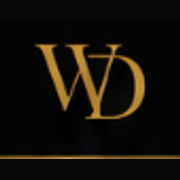
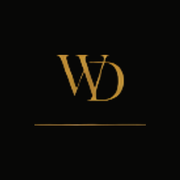
Corrige o splash do app e adiciona abertura de marca
O que aparecia ao abrir o atalho era o splash de PWA do Android: sem manifest,
o sistema monta a tela sozinho com o ícone sobre fundo branco. Entra um
manifest com background_color e theme_color na tinta do layout.

Os ícones também estavam ruins: eu os gerava esticando um logo de 85x57 até
512x512 com `contain`, o que deixava a arte borrada, a régua dourada solta no
rodapé e barras pretas nas laterais. Agora o monograma é aparado do fundo
transparente e centralizado num quadrado de tinta, com 192 e 512 px próprios.

Some também o corte branco entre o carregamento e o app: sendo renderizado no
cliente, o documento ficava branco até o bundle montar. A abertura é declarada
inline no index.html — pinta na primeira resposta, traz o monograma e a mesma
luz diagonal do hero, e sai quando o app avisa que montou. Um limite de tempo
independente garante que ela nunca retenha a página, e prefers-reduced-motion
desliga o movimento.

Changed region(s): [[0.1944, 0.2222, 0.8333, 0.7222], [0.0, 0.8611, 1.0, 0.8889]]

diff --git a/index.html b/index.html
@@ -33,8 +33,85 @@
     <meta name="twitter:image" content="https://elitewebdesigner.com.br/og-image.jpg" />
 
     <link rel="icon" href="/icon-32.png" sizes="32x32" />
+    <link rel="icon" href="/icon-192.png" sizes="192x192" />
     <link rel="icon" href="/icon-512.png" sizes="512x512" />
     <link rel="apple-touch-icon" href="/apple-touch-icon.png" />
+    <!-- Define o fundo do splash do Android; sem manifest ele monta a tela em branco. -->
+    <link rel="manifest" href="/manifest.webmanifest" />
+
+    <!--
+      Abertura inline: precisa pintar na primeira resposta, antes do CSS e do JS
+      do bundle. Sendo o site renderizado no cliente, sem isto a tela fica branca
+      até o app montar — num layout preto e dourado, um corte seco.
+    -->
+    <style>
+      #splash {
+        position: fixed;
+        inset: 0;
+        z-index: 100;
+        display: grid;
+        place-items: center;
+        overflow: hidden;
+        background: #070706;
+        transition:
+          opacity 0.75s cubic-bezier(0.22, 0.61, 0.36, 1),
+          visibility 0.75s;
+      }
+      #splash.is-done {
+        opacity: 0;
+        visibility: hidden;
+      }
+      .splash__mark {
+        width: clamp(84px, 21vw, 128px);
+        height: auto;
+        opacity: 0;
+        transform: translateY(12px) scale(0.94);
+        animation: splash-mark 1s cubic-bezier(0.22, 0.61, 0.36, 1) 0.08s forwards;
+      }
+      /* Mesma luz diagonal do hero, atravessando a cena uma única vez. */
+      .splash__sheen {
+        position: absolute;
+        top: -60%;
+        left: -30%;
+        width: 26%;
+        height: 220%;
+        transform: rotate(-27deg) translateX(-60vw);
+        background: linear-gradient(
+          90deg,
+          transparent,
+          rgba(214, 172, 82, 0.16) 42%,
+          rgba(255, 246, 224, 0.5) 50%,
+          rgba(214, 172, 82, 0.16) 58%,
+          transparent
+        );
+        filter: blur(22px);
+        animation: splash-sheen 1.9s cubic-bezier(0.4, 0, 0.2, 1) 0.25s forwards;
+      }
+      @keyframes splash-mark {
+        to {
+          opacity: 1;
+          transform: none;
+        }
+      }
+      @keyframes splash-sheen {
+        to {
+          transform: rotate(-27deg) translateX(140vw);
+        }
+      }
+      @media (prefers-reduced-motion: reduce) {
+        .splash__mark,
+        .splash__sheen {
+          animation: none;
+        }
+        .splash__mark {
+          opacity: 1;
+          transform: none;
+        }
+        .splash__sheen {
+          display: none;
+        }
+      }
+    </style>
 
     <link rel="preconnect" href="https://fonts.googleapis.com" />
     <link rel="preconnect" href="https://fonts.gstatic.com" crossorigin />
@@ -75,6 +152,44 @@
     </script>
   </head>
   <body>
+    <div id="splash" role="status" aria-label="Carregando Elite Web Designer">
+      <span class="splash__sheen" aria-hidden="true"></span>
+      <img
+        class="splash__mark"
+        src="/brand-mark.webp"
+        width="260"
+        height="174"
+        alt=""
+        fetchpriority="high"
+      />
+    </div>
+
+    <script>
+      // A abertura nunca pode reter a página: some quando o app avisa que montou
+      // e, de qualquer forma, no limite de tempo abaixo.
+      ;(function () {
+        var MIN_MS = 900
+        var MAX_MS = 4000
+        var start = Date.now()
+        var splash = document.getElementById('splash')
+        var gone = false
+
+        function remove() {
+          if (gone || !splash) return
+          gone = true
+          splash.classList.add('is-done')
+          setTimeout(function () {
+            splash.remove()
+          }, 800)
+        }
+
+        window.__hideSplash = function () {
+          setTimeout(remove, Math.max(0, MIN_MS - (Date.now() - start)))
+        }
+        setTimeout(remove, MAX_MS)
+      })()
+    </script>
+
     <div id="app"></div>
     <noscript>
       <p style="padding: 2rem; text-align: center">

diff --git a/src/main.ts b/src/main.ts
@@ -2,4 +2,16 @@ import { createApp } from 'vue'
 import App from './App.vue'
 import './styles/main.css'
 
+declare global {
+  interface Window {
+    __hideSplash?: () => void
+  }
+}
+
 createApp(App).mount('#app')
+
+/**
+ * Avisa a abertura declarada no index.html de que o app já pintou. Ela também
+ * some sozinha por tempo limite, então nada aqui é capaz de reter a página.
+ */
+window.__hideSplash?.()
